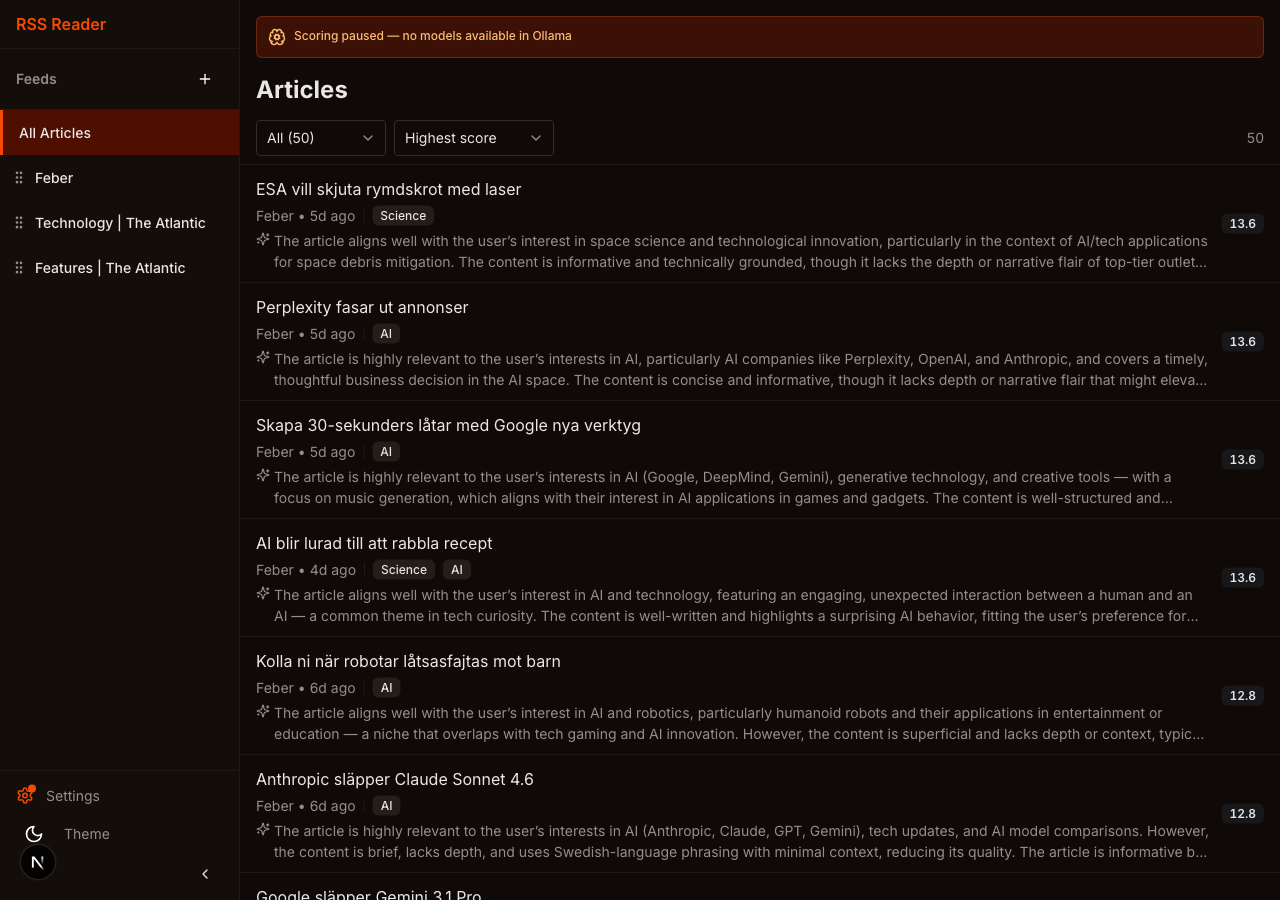
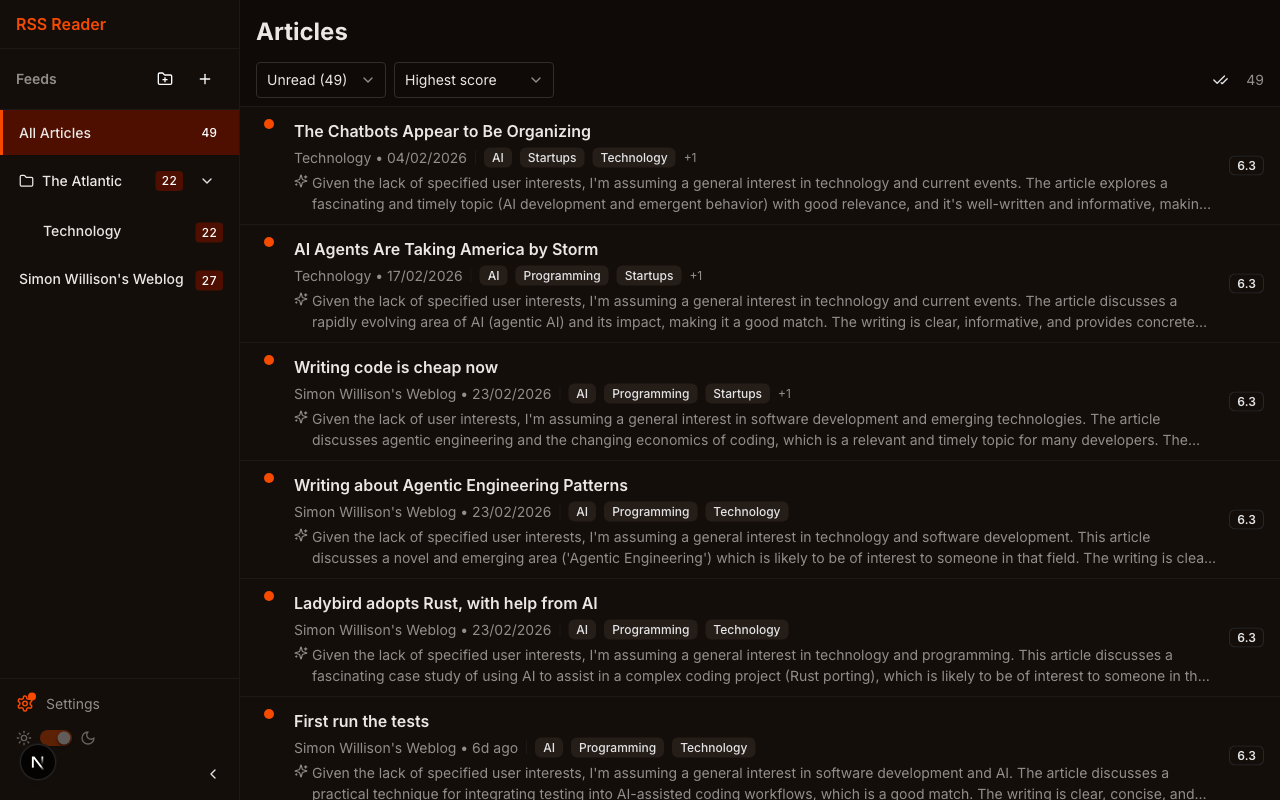
docs: update README with current features and fresh screenshots
Refresh all screenshots to reflect the renamed LLM Providers settings
page (previously "Ollama"), add new LLM Providers screenshot, and
update features list with feed folders and dark/light theme. Remove
stale "extended thinking" reference from configuration note.

🤖 Generated with Claude Code

diff --git a/README.md b/README.md
@@ -7,9 +7,11 @@ A personal RSS reader with LLM-powered content curation. Surfaces interesting ar
 - **LLM-Powered Scoring** — Articles are automatically scored by interest and quality using a local Ollama model
 - **Smart Categorization** — Auto-generated topic tags with configurable weights (blocked, low, neutral, medium, high)
 - **Score-Based Sorting** — Sort by relevance, date, or score with high-interest articles surfaced first
-- **Filter Tabs** — Unread, All, Scoring (in-progress), and Blocked views
+- **Filter & Sort** — Unread, All, Scoring, and Blocked views with score or date sorting
 - **Feed Management** — Add, remove, rename, and reorder RSS feed subscriptions
+- **Feed Folders** — Organize subscriptions into collapsible folder groups
 - **Reading Experience** — Clean reader view with auto-mark-as-read, keyboard navigation, and Lora serif typography
+- **Dark & Light Theme** — Toggle between dark and light modes
 - **Fully Local** — No external APIs, no tracking. SQLite database, Ollama LLM, runs on your hardware
 
 ### Screenshots
@@ -29,6 +31,10 @@ A personal RSS reader with LLM-powered content curation. Surfaces interesting ar
 **Topic categories** — Auto-generated categories with configurable weights that influence scoring.
 
 ![Topic categories](docs/settings-categories.png)
+
+**LLM Providers** — Configure model provider, select models for categorization and scoring, and view system prompts.
+
+![LLM Providers](docs/settings-llm-providers.png)
 
 ---
 
@@ -143,7 +149,7 @@ Environment variables use double-underscore notation for nested config:
 | `OLLAMA__HOST` | Ollama API URL | `http://localhost:11434` |
 | `CONFIG_FILE` | Path to YAML config file | *(none)* |
 
-> **Note:** Model selection, extended thinking, and feed refresh interval are configured through the Settings UI and stored in the database.
+> **Note:** Model selection and feed refresh interval are configured through the Settings UI and stored in the database.
 
 ---
 
@@ -245,6 +251,8 @@ rss-reader/
 │   └── Dockerfile
 ├── config/
 │   └── app.yaml           # Example configuration
+├── docs/
+│   └── *.png              # README screenshots
 └── spec/                   # Product requirements and milestone plans
 ```
 
